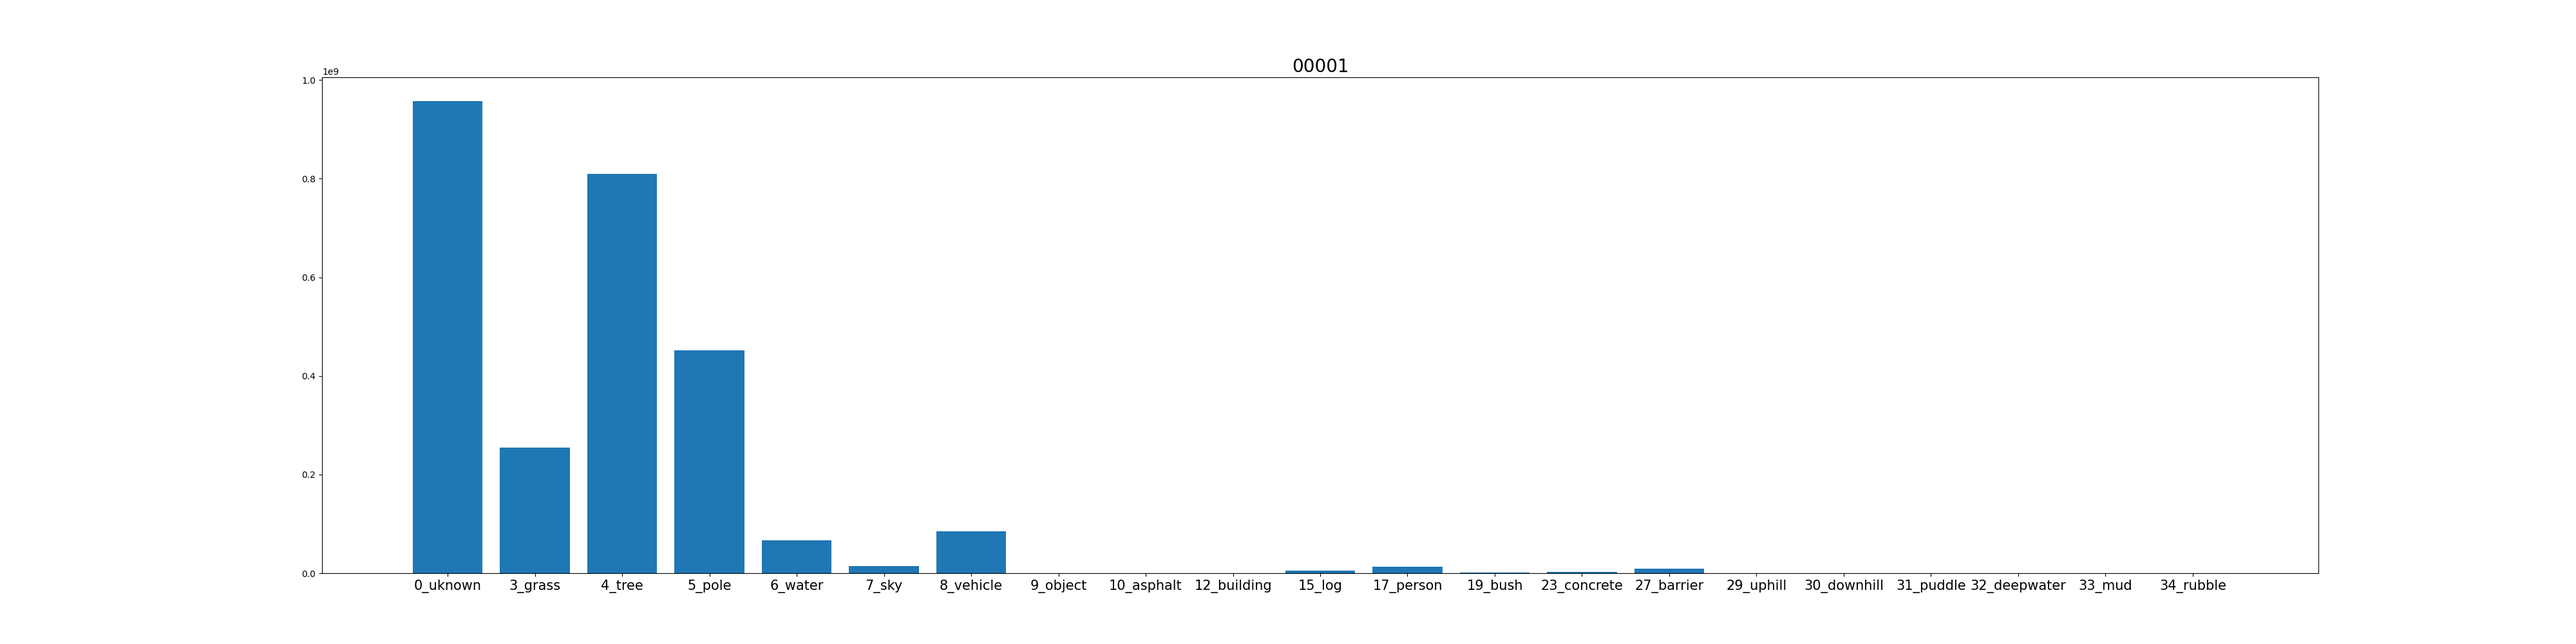
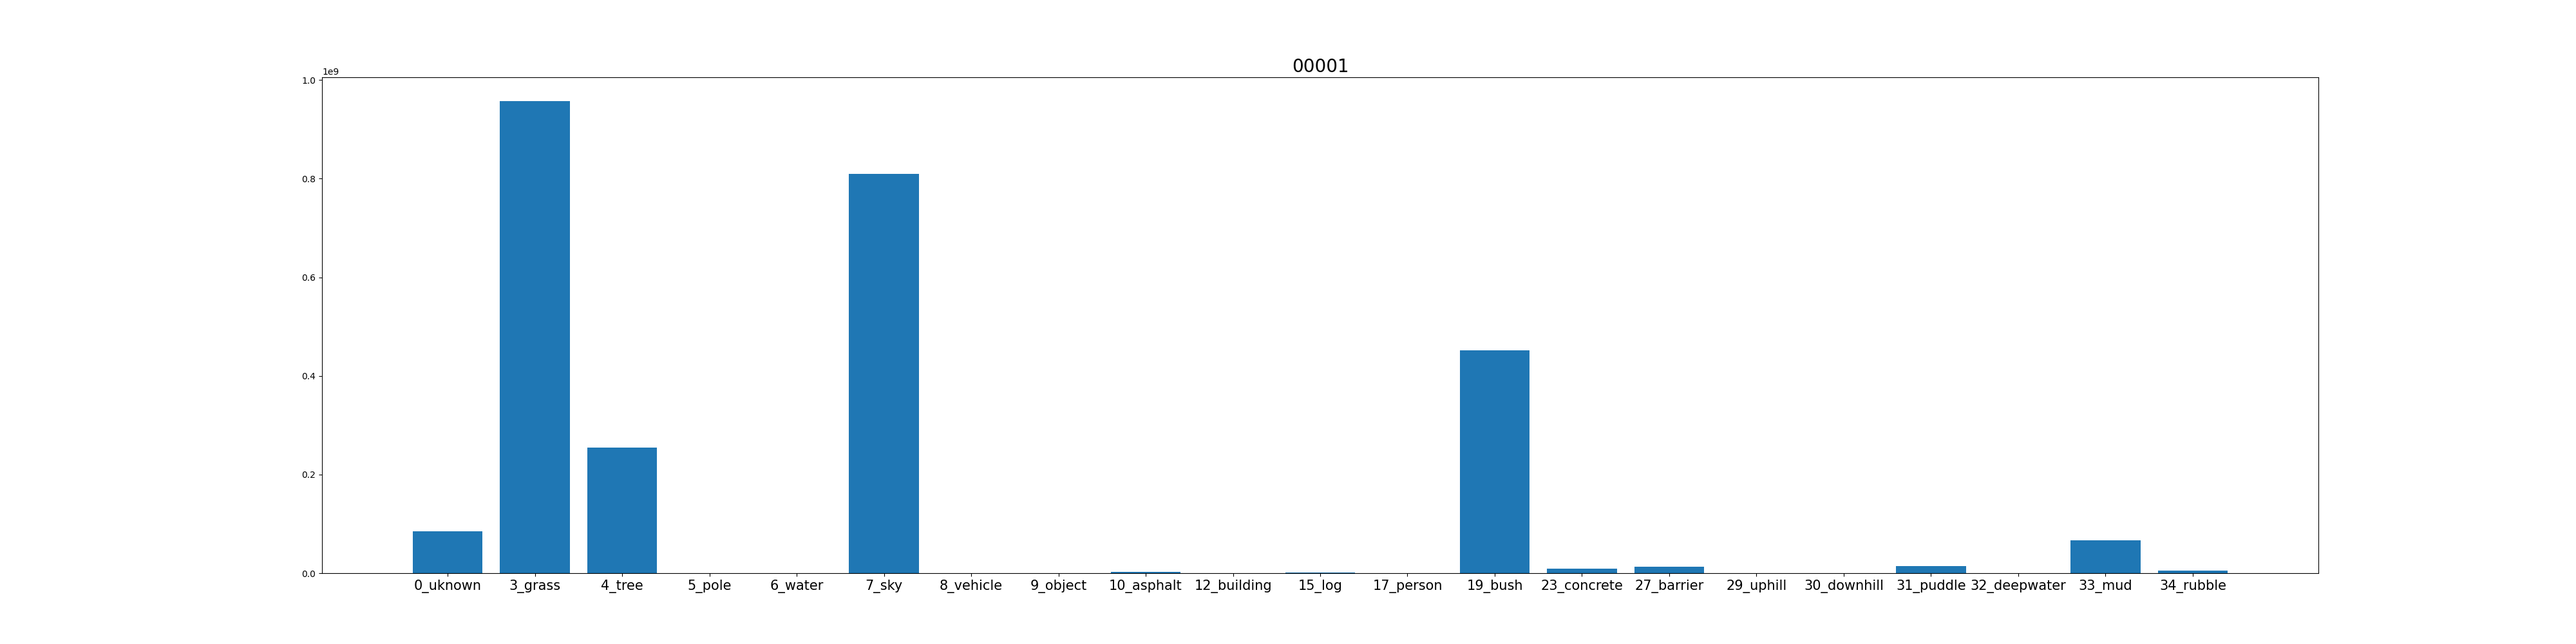
fix dict sort probelm

Changed region(s): [[0.1562, 0.155, 0.4062, 0.899], [0.5312, 0.527, 0.625, 0.899], [0.7188, 0.837, 0.8438, 0.899]]

diff --git a/benchmarks/utils/compute_img_statics.py b/benchmarks/utils/compute_img_statics.py
@@ -129,7 +129,8 @@ if __name__ == "__main__":
     for i in label_dict.keys(): 
         count_dict[i]=count_dict[i] if i in count_dict.keys() else 0 
     fig, ax = plt.subplots(figsize=(40,10))
-
+    count_dict = dict(sorted(count_dict.items()))
+    print(count_dict)
     #fig,ax = plt.figure(figsize=(20,20))
     print(count_dict.keys(),x)
     plt.title(f"{args.name}",fontsize = 20.0)
